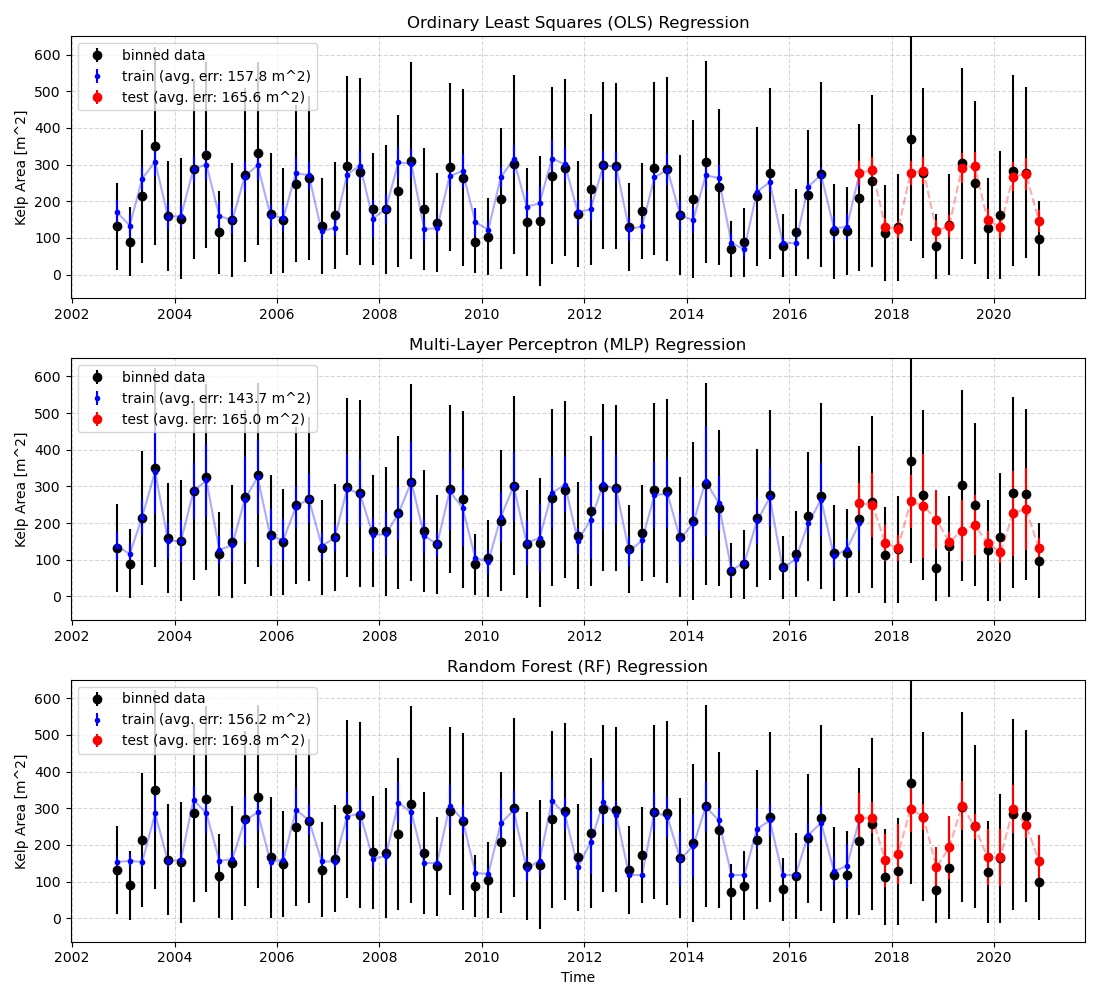
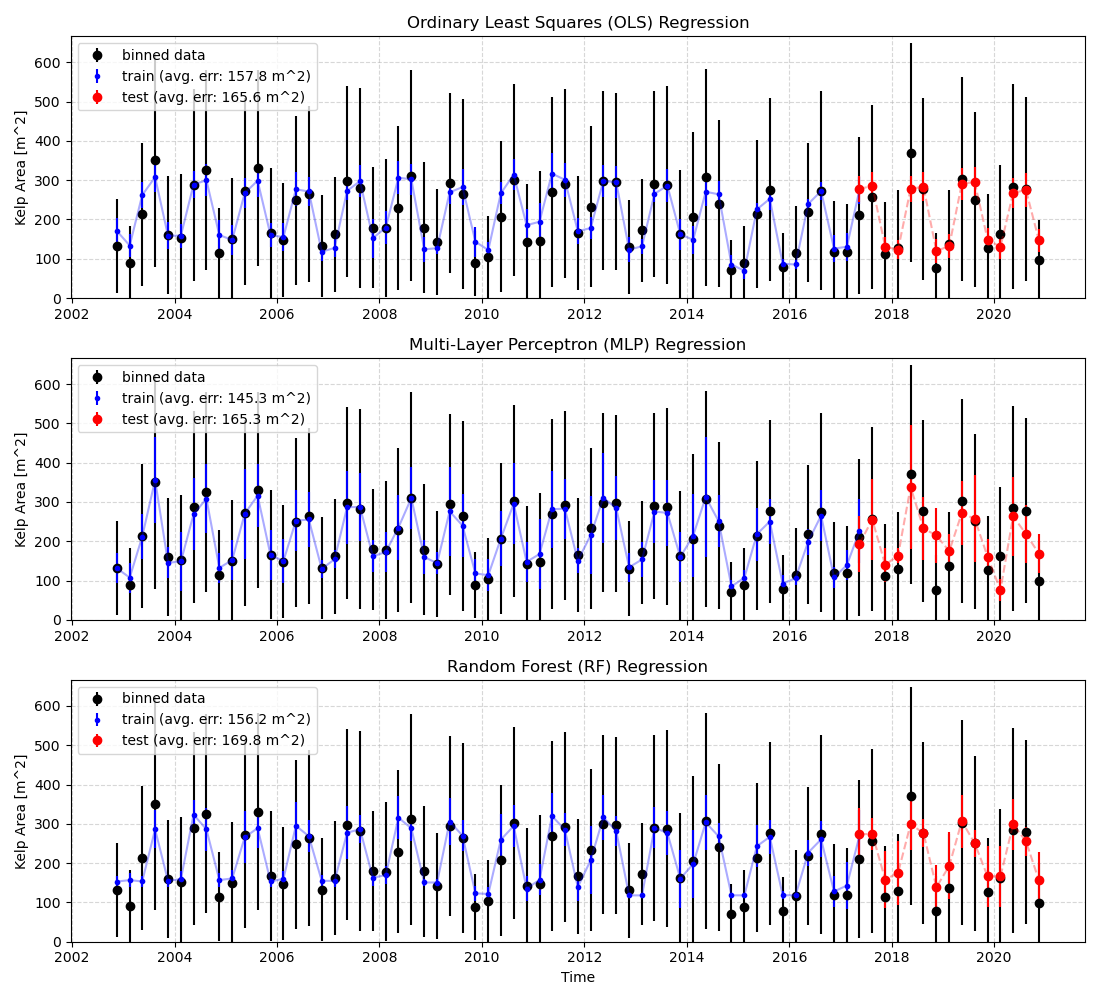
regressors

diff --git a/train_regressors.py b/train_regressors.py
@@ -165,7 +165,8 @@ if __name__ == "__main__":
     ax[0].set_ylabel("Kelp Area [m^2]")
     ax[0].set_title("Ordinary Least Squares (OLS) Regression")
     ax[0].grid(True,ls='--',alpha=0.5)
-    ax[0].set_ylim(top=650)
+    ax[0].set_ylim([0,666])
+
     # MLP timeseries
     ax[1].errorbar(utime_dt, bmean, yerr=bstd, fmt='o', color='black', label='binned data')
     ax[1].errorbar(utime_train_dt, mean_mlp_train, yerr=std_mlp_train, fmt='.', ls='none', color='blue', label=f'train (avg. err: {abs_err_mlp_train:.1f} m^2)')
@@ -177,7 +178,8 @@ if __name__ == "__main__":
     ax[1].set_ylabel("Kelp Area [m^2]")
     ax[1].set_title("Multi-Layer Perceptron (MLP) Regression")
     ax[1].grid(True,ls='--',alpha=0.5)
-    ax[1].set_ylim(top=650)
+    ax[1].set_ylim([0,666])
+
 
     # DT timeseries
     ax[2].errorbar(utime_dt, bmean, yerr=bstd, fmt='o', color='black', label='binned data')
@@ -191,7 +193,7 @@ if __name__ == "__main__":
     ax[2].set_ylabel("Kelp Area [m^2]")
     ax[2].set_title("Random Forest (RF) Regression")
     ax[2].grid(True,ls='--',alpha=0.5)
-    ax[2].set_ylim(top=650)
+    ax[2].set_ylim([0,666])
 
     #DT Text
 #     train_representation = tree.export_text()
